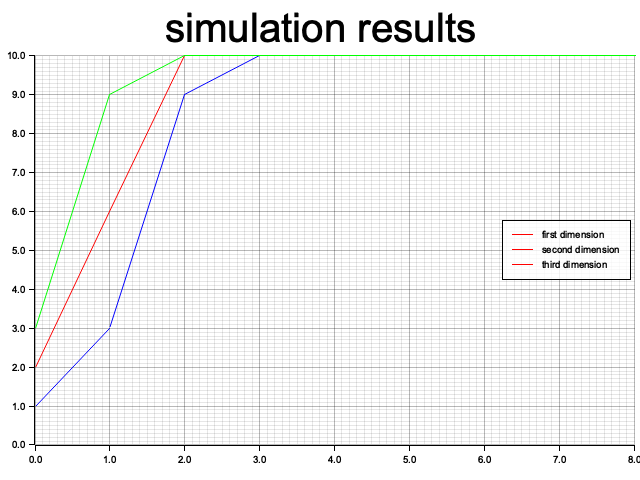
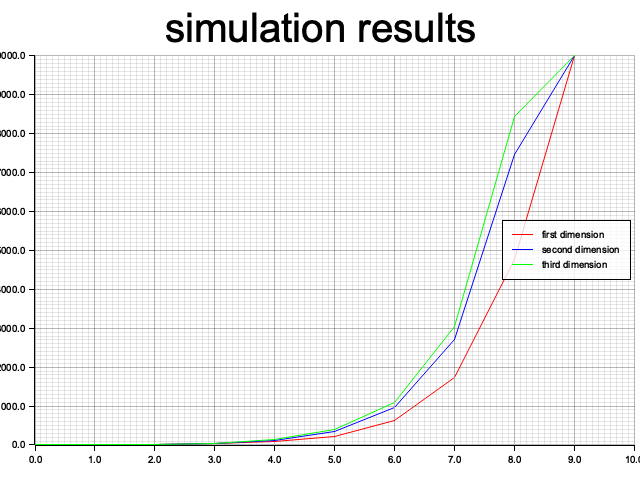
clean up SS object api

diff --git a/src/main.rs b/src/main.rs
@@ -1,91 +1,19 @@
-use nalgebra::{matrix, vector, Matrix3, RowVector3, Vector3, Vector1};
-use plotters::prelude::*;
-
-fn generate_sim_results_plot(simdata: &Vec<Vector3<f32>>) -> Result<(), Box<dyn std::error::Error>> {
-    let root = BitMapBackend::new("./test.png", (640, 480)).into_drawing_area();
-    root.fill(&WHITE)?;
-    let length = simdata.len();
-    let mut chart = ChartBuilder::on(&root)
-        .caption("simulation results", ("sans-serif", 50).into_font())
-        .margin(5)
-        .x_label_area_size(30)
-        .y_label_area_size(30)
-        .build_cartesian_2d(0f32..8f32, 0f32..length as f32)?;
-
-    chart.configure_mesh().draw()?;
-    
-    let mut first_dimension = Vec::new();
-    for (idx, i) in simdata.iter().enumerate() {
-        let vec = i.x;
-        first_dimension.push((idx as f32, vec)) 
-    }
-
-    let mut second_dimension = Vec::new();
-    for (idx, i) in simdata.iter().enumerate() {
-        let vec = i.y;
-        second_dimension.push((idx as f32, vec)) 
-    }
-
-    let mut third_dimension = Vec::new();
-    for (idx, i) in simdata.iter().enumerate() {
-        let vec = i.z;
-        third_dimension.push((idx as f32, vec)) 
-    }
-
-    chart
-        .draw_series(LineSeries::new(
-            first_dimension,
-            &RED,
-        ))?
-        .label("first dimension")
-        .legend(|(x, y)| PathElement::new(vec![(x, y), (x + 20, y)], &RED));
-    
-
-    chart
-        .draw_series(LineSeries::new(
-            second_dimension,
-            &BLUE,
-        ))?
-        .label("second dimension")
-        .legend(|(x, y)| PathElement::new(vec![(x, y), (x + 20, y)], &RED));
-    
-    chart
-        .draw_series(LineSeries::new(
-            third_dimension,
-            &GREEN,
-        ))?
-        .label("third dimension")
-        .legend(|(x, y)| PathElement::new(vec![(x, y), (x + 20, y)], &RED));
-    
-
-    chart
-        .configure_series_labels()
-        .background_style(&WHITE.mix(0.8))
-        .border_style(&BLACK)
-        .draw()?;
-
-    root.present()?;
-
-    Ok(())
-}
-
-fn lsim(A: &Matrix3<f32>, B: &Vector3<f32>, C: &RowVector3<f32>,  D:&Vector1<f32>, K: usize) -> Vec<Vector3<f32>>{
-    let output: Vec<Vector3<f32>> = Vec::new();
-    let mut states: Vec<Vector3<f32>> = Vec::new();
-    states.push(vector![2.0,1.0,3.0]);
-    for k in 1..K {
-        states.push(A*states[k-1]);
-    }
-    states
-}
+use nalgebra::{matrix, Matrix3, Vector3, RowVector3, Vector1, vector};
+use kalmanrs::{DTLSS, heavyside_step,  generate_sim_results_plot};
 
 fn main() {
-    println!("Hello, world!");
-    let A: Matrix3<f32> = matrix![3.0,0.0,0.0;0.0,3.0,0.0;0.0,0.0,3.0];
+    let A: Matrix3<f32> = matrix![1.0,0.0,1.0;1.0,1.0,1.0;0.0,2.0,1.0];
     let B: Vector3<f32> = vector![1.0, 0.0, 0.0];
     let C: RowVector3<f32> = vector![1.0, 0.0, 0.0].transpose();
     let D: Vector1<f32> = Vector1::zeros();
-    let states = lsim(&A, &B, &C, &D, 10);
-    generate_sim_results_plot(&states);
-    println!("{:?}", states);
+    let K = 10;
+
+    let step_time = 0;
+    let step_value = 1.0;
+
+    let input = heavyside_step(K, step_time, step_value);
+
+    let ss = DTLSS::new(A,B, C, D);
+    let states = ss.lsim(K, input);
+    generate_sim_results_plot(&states).unwrap();
 }

diff --git a/src/lib.rs b/src/lib.rs
@@ -1,0 +1,109 @@
+use nalgebra::{vector, Matrix, Matrix3, RowVector3, Vector1, Vector3};
+use plotters::prelude::*;
+
+pub fn generate_sim_results_plot(
+    simdata: &Vec<Vector3<f32>>,
+) -> Result<(), Box<dyn std::error::Error>> {
+    let root = BitMapBackend::new("./test.png", (640, 480)).into_drawing_area();
+    root.fill(&WHITE)?;
+    let length = simdata.len();
+    let mut chart = ChartBuilder::on(&root)
+        .caption("simulation results", ("sans-serif", 50).into_font())
+        .margin(5)
+        .x_label_area_size(30)
+        .y_label_area_size(30)
+        .build_cartesian_2d(0f32..length as f32, 0f32..10000f32)?;
+
+    chart.configure_mesh().draw()?;
+
+    let mut first_dimension = Vec::new();
+    for (idx, i) in simdata.iter().enumerate() {
+        let vec = i.x;
+        first_dimension.push((idx as f32, vec))
+    }
+
+    let mut second_dimension = Vec::new();
+    for (idx, i) in simdata.iter().enumerate() {
+        let vec = i.y;
+        second_dimension.push((idx as f32, vec))
+    }
+
+    let mut third_dimension = Vec::new();
+    for (idx, i) in simdata.iter().enumerate() {
+        let vec = i.z;
+        third_dimension.push((idx as f32, vec))
+    }
+
+    chart
+        .draw_series(LineSeries::new(first_dimension, &RED))?
+        .label("first dimension")
+        .legend(|(x, y)| PathElement::new(vec![(x, y), (x + 20, y)], &RED));
+
+    chart
+        .draw_series(LineSeries::new(second_dimension, &BLUE))?
+        .label("second dimension")
+        .legend(|(x, y)| PathElement::new(vec![(x, y), (x + 20, y)], &BLUE));
+
+    chart
+        .draw_series(LineSeries::new(third_dimension, &GREEN))?
+        .label("third dimension")
+        .legend(|(x, y)| PathElement::new(vec![(x, y), (x + 20, y)], &GREEN));
+
+    chart
+        .configure_series_labels()
+        .background_style(&WHITE.mix(0.8))
+        .border_style(&BLACK)
+        .draw()?;
+
+    root.present()?;
+
+    Ok(())
+}
+
+
+pub fn heavyside_step(K: usize, step_time: usize, step_value: f32) -> Vec<Vector1<f32>> {
+    let mut step: Vec<Vector1<f32>> = Vec::new();
+    for i in 0..K {
+        if i >= step_time {
+            let val = vector![step_value];
+            step.push(val);
+        } else {
+            let val = vector![0.0];
+            step.push(val);
+        }
+    }
+    step
+}
+
+// discrete time linear state space
+pub struct DTLSS<T> {
+    pub A: Matrix3<T>,
+    pub B: Vector3<T>,
+    pub C: RowVector3<T>,
+    pub D: Vector1<T>,
+}
+
+impl<T> DTLSS<T> {
+    pub fn new(A: Matrix3<T>, B: Vector3<T>, C: RowVector3<T>, D: Vector1<T>) -> Self {
+        Self {A, B, C, D}
+    }
+
+}
+
+
+impl DTLSS<f32> {
+    
+    pub fn lsim
+    (
+        &self,
+        K: usize,
+        U: Vec<Vector1<f32>>,
+    ) -> Vec<Vector3<f32>> {
+        let mut states: Vec<Vector3<f32>> = Vec::new();
+        states.push(vector![2.0, 1.0, 3.0]);
+        for k in 1..K {
+            states.push(&self.A * states[k - 1] + &self.B * U[k - 1]);
+        }
+        states
+    }
+}
